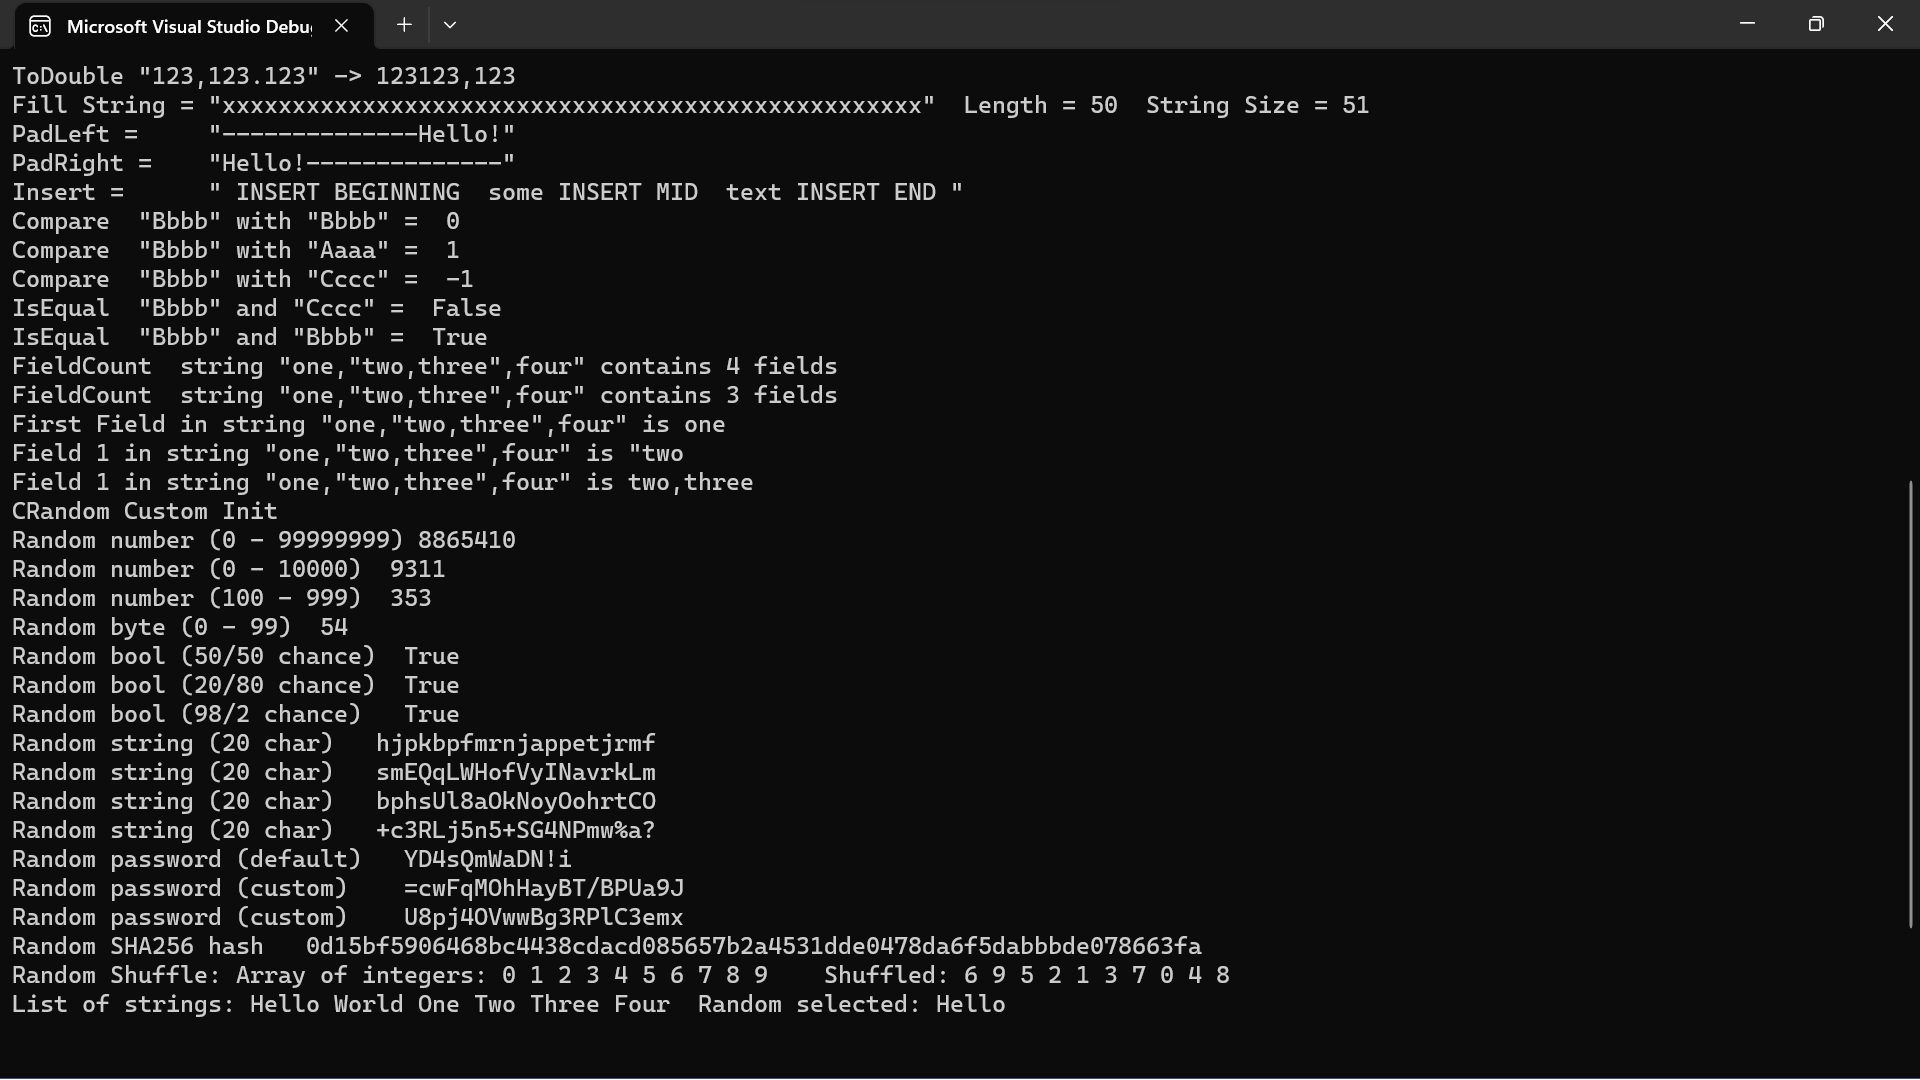
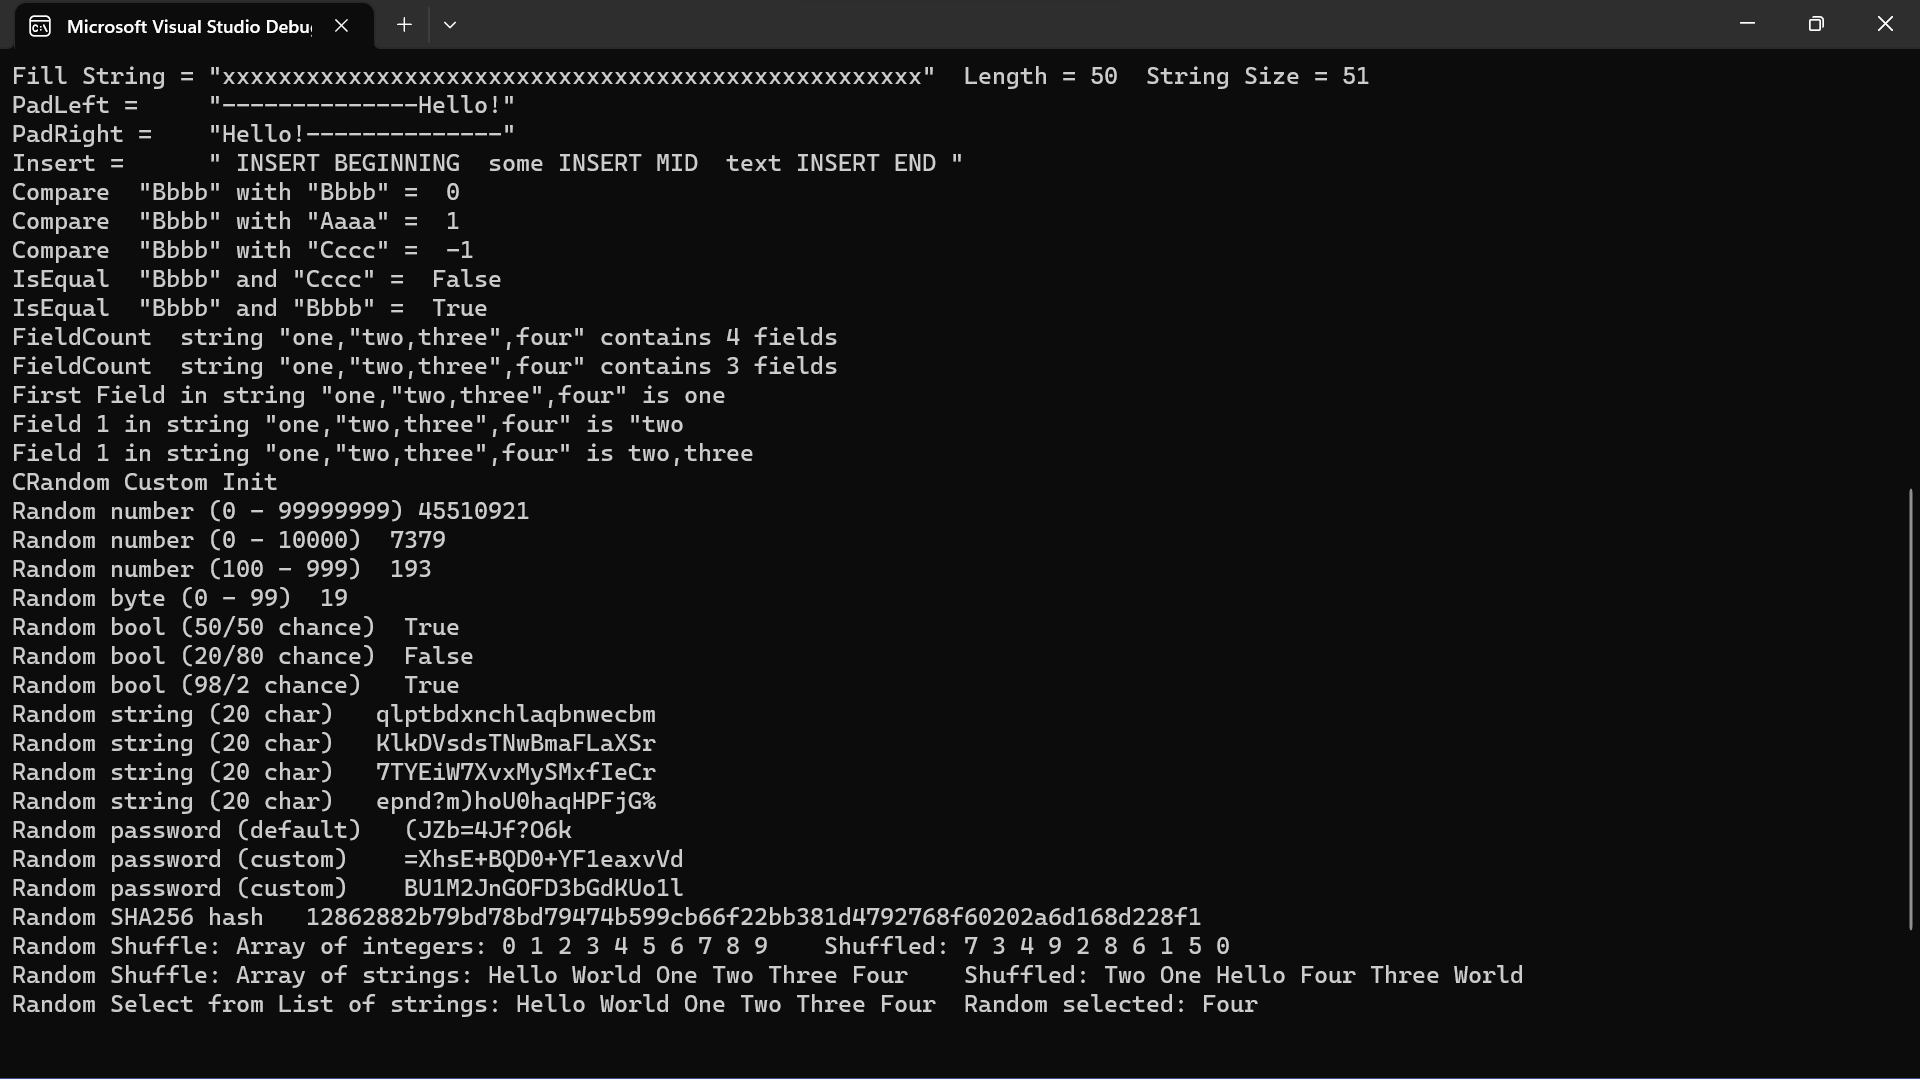
added more CRandom examples

diff --git a/Syslib.Core.Application/CRandom_Application.cs b/Syslib.Core.Application/CRandom_Application.cs
@@ -76,6 +76,10 @@ namespace Syslib.Core.Application
 		{
 			int arraysize = 10;
 			int[] intarray = new int[arraysize];
+			string[] arrayofstrings = { "Hello", "World", "One", "Two", "Three", "Four" };
+
+
+			// shuffle array of integers
 
 			for (int i = 0; i < arraysize; i++) intarray[i] = i;
 
@@ -89,16 +93,29 @@ namespace Syslib.Core.Application
 			Console.Write("\n");
 
 
+
+			// Shuffle array of strings
+
+			Console.Write("Random Shuffle: Array of strings: ");
+			for (int i = 0; i < arrayofstrings.Length; i++) Console.Write($"{arrayofstrings[i]} ");
+
+			CRandom.Random.Shuffle(arrayofstrings);
+
+			Console.Write("   Shuffled: ");
+			for (int i = 0; i < arrayofstrings.Length; i++) Console.Write($"{arrayofstrings[i]} ");
+			Console.Write("\n");
+
+
 		}
 
 		void SelectRandomFromList()
 		{
 			var list = new CList<string>();
-			string[] listofstrings = { "Hello", "World", "One", "Two", "Three", "Four"};
+			string[] arrayofstrings = { "Hello", "World", "One", "Two", "Three", "Four"};
 
-			list.Add(listofstrings);
+			list.Add(arrayofstrings);
 
-			Console.Write("List of strings: ");
+			Console.Write("Random Select from List of strings: ");
 			foreach (var str in list) { Console.Write($"{str} "); }
 
 			Console.WriteLine($" Random selected: {CRandom.Random.SelectRandom(list, itemsInList: list.Count())}");
